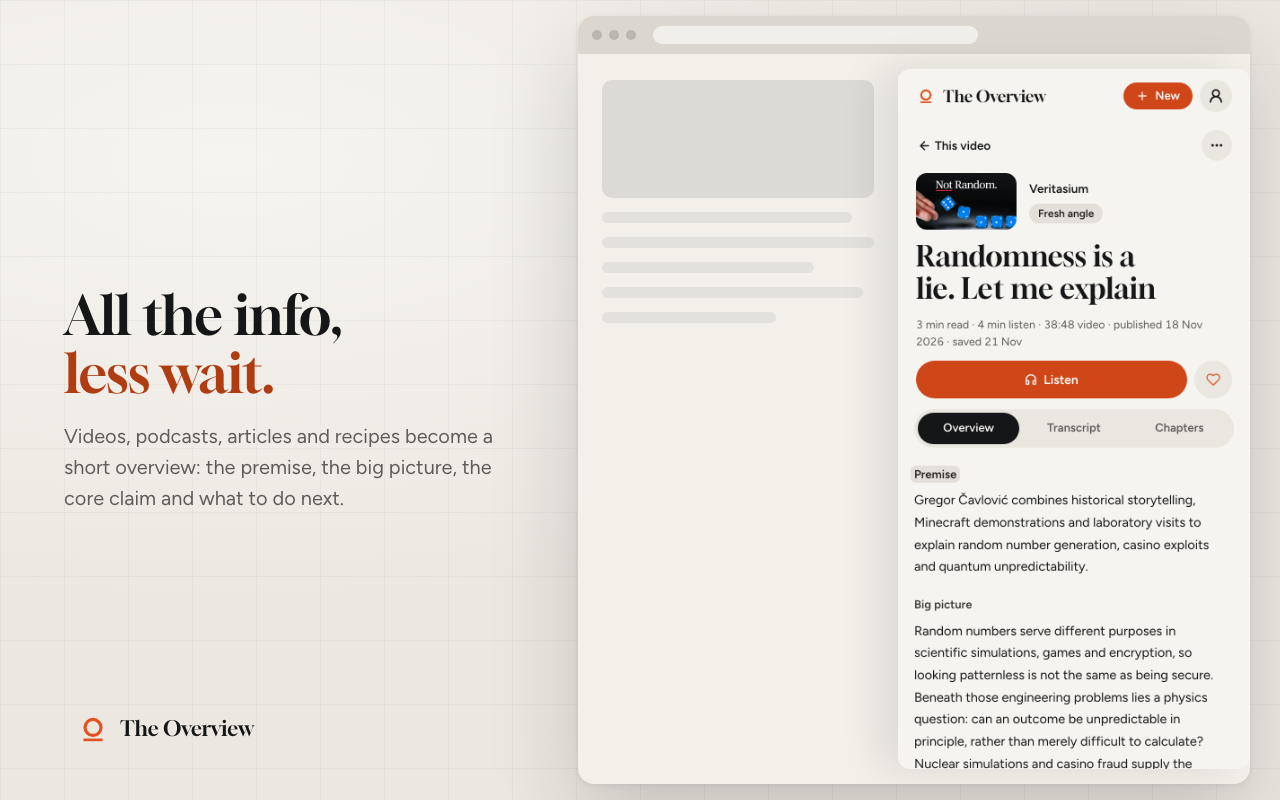
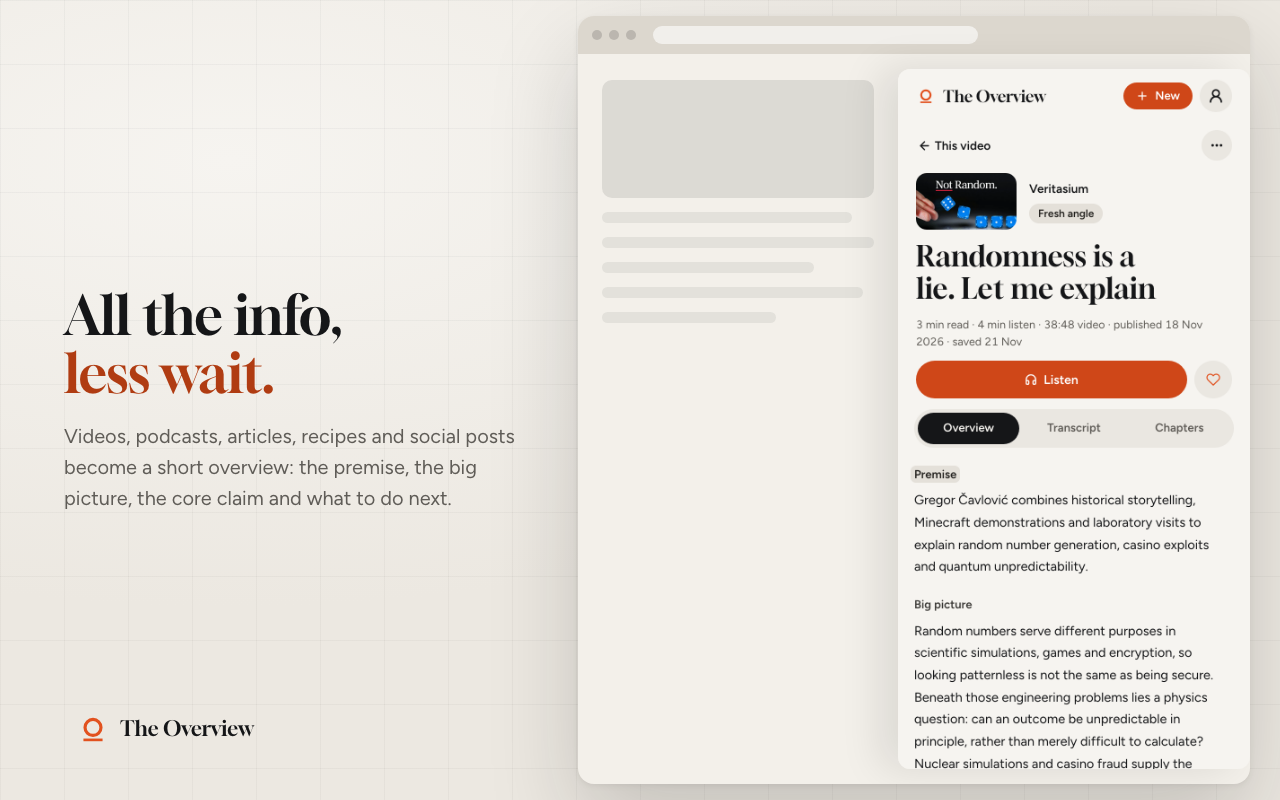
OV-265: Name social posts on the note shot, and show Ask drawing on five overviews

Changed region(s): [[0.0312, 0.5312, 0.4062, 0.6562]]

diff --git a/packages/app-core/playwright/store/storeLibrary.testHelper.ts b/packages/app-core/playwright/store/storeLibrary.testHelper.ts
@@ -1,4 +1,10 @@
-import { SharedNote, type ChatAnswerSections, type ChatCitation, type Overview as OverviewRecord } from "@overview/domain";
+import {
+  SharedNote,
+  type ChatAnswerSections,
+  type ChatCitation,
+  type ChatListItem,
+  type Overview as OverviewRecord,
+} from "@overview/domain";
 import type { BackendSimulator, ChatAnswerReply } from "../network/BackendSimulator.testHelper.js";
 import { makeOverviewState } from "../../src/features/overviews/types/OverviewFactory.testHelper.js";
 import { savedFromShare } from "../../src/features/sharedPage/util/savedFromShare.js";
@@ -58,37 +64,56 @@ export const storeLibrary = (backendSimulator: BackendSimulator, newestFirst: Ov
   return ordered;
 };
 
-export const STORE_QUESTION = "What have I saved about the brain and attention?";
+export const STORE_QUESTION = "How do I keep my focus through a long work day?";
 
 const cite = (overview: OverviewRecord): ChatCitation => ({ overviewId: overview.id, title: overview.source.title, item: null });
 
-const section = (heading: string, paragraph: string, from: OverviewRecord): ChatAnswerSections["sections"][number] => ({
+const point = (text: string, ...from: OverviewRecord[]): ChatListItem => ({ text, sources: from.map(cite) });
+
+const section = (heading: string, bullets: ChatListItem[]): ChatAnswerSections["sections"][number] => ({
   heading,
-  paragraphs: [paragraph],
+  paragraphs: [],
   numbered: [],
-  bullets: [],
-  sources: [{ citation: cite(from), relation: "Supports" }],
+  bullets,
+  sources: [],
 });
 
-// Each line restates its sample's own note, so the answer claims nothing the library doesn't hold.
+const answerSources = (): OverviewRecord[] => [theDataNote(), theMusicNote(), theAttentionNote(), theSellingNote(), theSleepNote()];
+export const STORE_ANSWER_READ = answerSources().length;
+
+// Each point restates its sample's own note, so the answer claims nothing the library doesn't hold.
 export const storeAnswer = (): ChatAnswerReply => {
-  const sleep = theSleepNote();
-  const music = theMusicNote();
-  const attention = theAttentionNote();
-  const read = [sleep, music, attention];
+  const read = answerSources();
+  const [work, music, attention, routines, sleep] = read as [
+    OverviewRecord,
+    OverviewRecord,
+    OverviewRecord,
+    OverviewRecord,
+    OverviewRecord,
+  ];
+  const intro = "Five of your overviews agree that focus runs out, so plan for it rather than push through.";
   return {
-    text: "Three of your overviews come at it from different sides.",
+    text: intro,
     citations: read.map(cite),
     picked: read.map((overview) => ({ overviewId: overview.id, title: overview.source.title })),
     sections: {
-      intro: "Three of your overviews come at it from different sides.",
+      intro,
       introSources: [],
       sections: [
-        section("Sleep came before brains", "Hydras have no brain, yet they meet the behavioural tests for sleep.", sleep),
-        section("Music as a memory cue", "Familiar music can bring back memories for some people with Alzheimer’s.", music),
-        section("Attention you can train", "Greene argues that slow, deliberate attention makes ordinary things vivid.", attention),
+        section("Do fewer things at once", [
+          point("Kakkar ran 3 to 5 agent workstreams and was spent by mid-afternoon, so he now caps them.", work),
+          point("Greene warns that split attention undermines the slow learning that mastery needs.", attention),
+        ]),
+        section("Take a real break", [
+          point("When attention flags, Levitin takes 5 to 10 minutes of music he enjoys instead of a coffee.", music),
+          point("Greene’s alternative: a minute of close attention on something ordinary, like an espresso pour.", attention),
+        ]),
+        section("Stop on purpose", [
+          point("Kakkar leaves his laptop at work; agents and scheduled routines carry on while you’re away.", work, routines),
+          point("Rest is more than a mental reset: sleep is regulated by muscles and other tissues too.", sleep),
+        ]),
       ],
-      takeaway: "One to try this week: Levitin’s five to ten minutes of music when your attention flags.",
+      takeaway: "Set a stop time, and when you flag before it, take ten minutes of music, not a coffee.",
     },
     stats: { overviews: SAMPLES.length, read: read.length, looked: SAMPLES.length },
   };

diff --git a/packages/app-core/playwright/store/storeScreenshots.shot.tsx b/packages/app-core/playwright/store/storeScreenshots.shot.tsx
@@ -6,6 +6,7 @@ import { expect, test } from "../support/fixtures.testHelper.js";
 import { SIMULATED_EMAIL } from "../network/BackendSimulator.testHelper.js";
 import { recentOverviewsTestIds } from "../../src/features/capture/components/RecentOverviews/RecentOverviewsTestIds.js";
 import {
+  STORE_ANSWER_READ,
   STORE_QUESTION,
   oneOfEachKind,
   storeAnswer,
@@ -360,7 +361,7 @@ test("a note in the panel, which is what saving something gets you", async ({ la
     lead: "All the info,",
     accent: "less wait.",
     breakAtSplit: true,
-    sub: "Videos, podcasts, articles and recipes become a short overview: the premise, the big picture, the core claim and what to do next.",
+    sub: "Videos, podcasts, articles, recipes and social posts become a short overview: the premise, the big picture, the core claim and what to do next.",
   });
 
   await shoot(page, "1-note");
@@ -373,7 +374,7 @@ test("a question across the whole library, answered in sections from what it hol
     await launcher.launchExpectingLibrary({ ...SIGNED_IN, showMilestoneCards: false });
     const ask = await launcher.appShell.openAsk();
     await ask.ask(STORE_QUESTION);
-    await ask.verifyReadLineReads(0, "Read 3 overviews");
+    await ask.verifyReadLineReads(0, `Read ${STORE_ANSWER_READ} overviews`);
   });
   await composed(
     page,

diff --git a/docs/architecture/store-listing.md b/docs/architecture/store-listing.md
@@ -395,7 +395,7 @@ Three departures from what a reader would see, recorded here because a store scr
 misleads is a rejection:
 
 - **The answer in `2-ask` is written for the shot**, since a real one needs a model. Each line
-  restates its sample's own note, and the three it cites are the three it draws on, so it
+  restates its sample's own note, and the five it cites are the five it draws on, so it
   claims nothing the library doesn't hold (`storeAnswer`).
 - **The conversation in `5-assistant` is drawn**, in onboarding's own bubble styling
   (`OnboardingSlide.module.scss`). It names two notes by title, and those titles are read out
